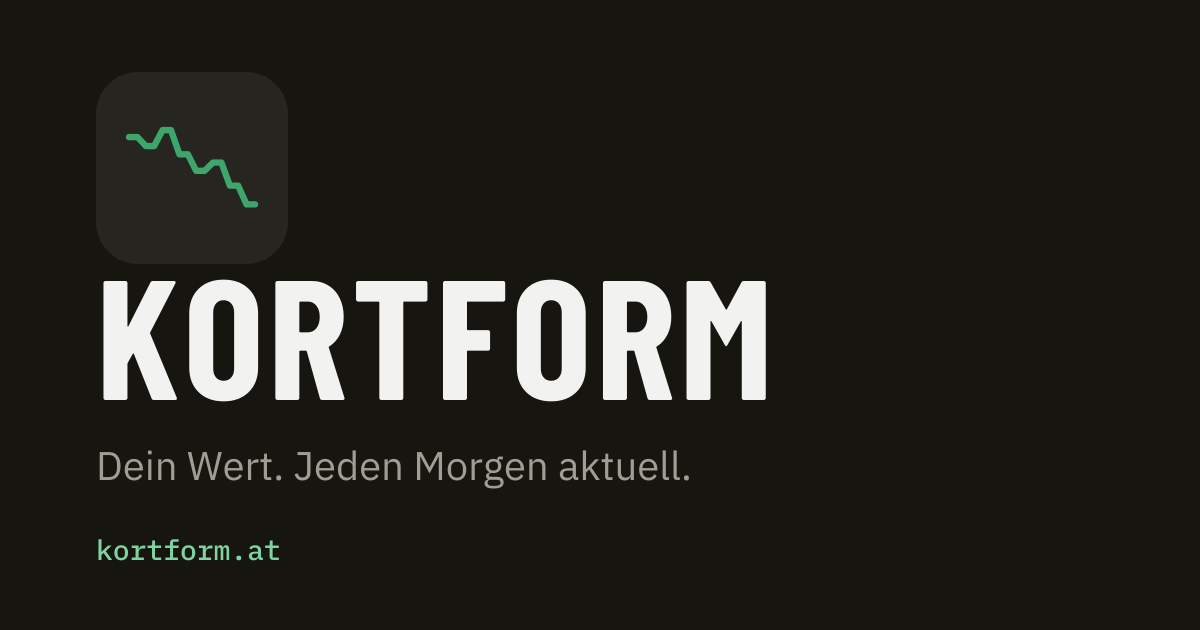
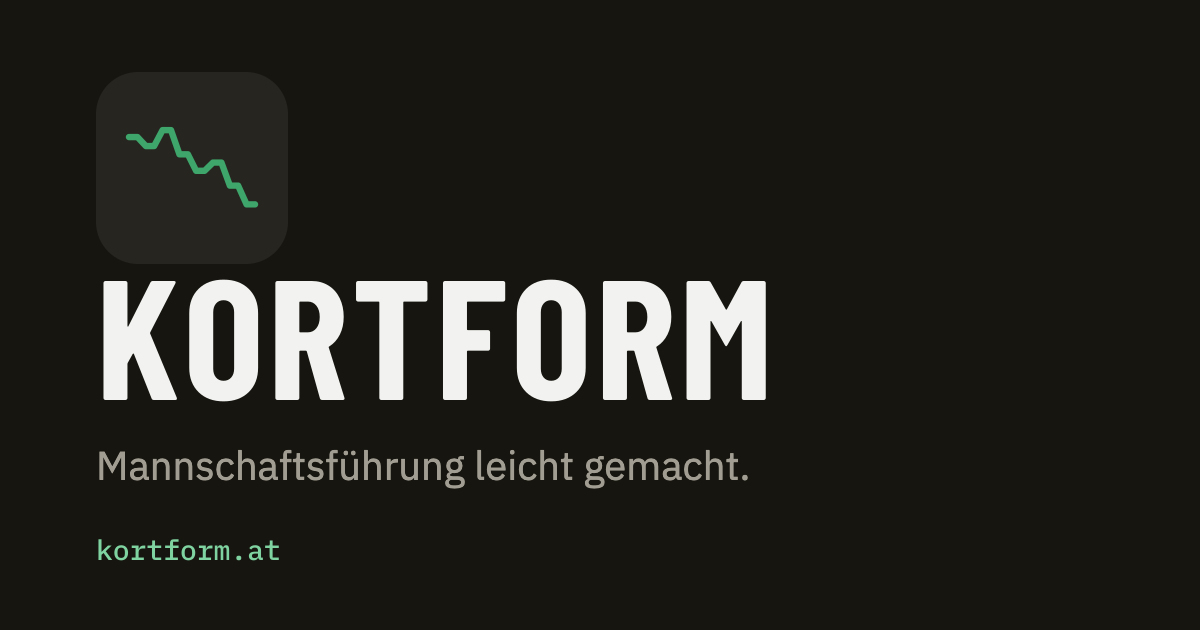
Use the new slogan, show answering by app or link and split prices by role

Changed region(s): [[0.0617, 0.6937, 0.6167, 0.7841]]

diff --git a/site/index.html b/site/index.html
@@ -4,7 +4,7 @@
   <meta charset="utf-8">
   <meta name="viewport" content="width=device-width, initial-scale=1">
   <title>Kortform – Mannschaft &amp; ITN</title>
-  <meta name="description" content="Kortform für Mannschaftsführer*innen im Tennis: Verfügbarkeit per Link abfragen, Spieler*innen antworten ohne App. Mit Kortform Team: Antworten auswerten, Aufstellung nach ITN planen, Liga-Prognose und gemeinsam mit der Co-Mannschaftsführung führen. Dazu dein eigener ITN, der Match-Rechner und Widgets.">
+  <meta name="description" content="Mannschaftsführung leicht gemacht: Kortform fragt die Verfügbarkeit deiner Tennis-Mannschaft ab, Spieler*innen antworten per App oder per Link. Mit Kortform Team: Antworten auswerten, Aufstellung nach ITN planen, Liga-Prognose und gemeinsam mit der Co-Mannschaftsführung führen. Dazu dein eigener ITN, der Match-Rechner und Widgets.">
   <link rel="canonical" href="https://kortform.at/">
   <meta name="apple-itunes-app" content="app-id=6826770040">
   <meta http-equiv="Content-Security-Policy" content="default-src 'none'; img-src 'self'; style-src 'self'; script-src 'self'; frame-src https://www.youtube-nocookie.com; connect-src https://swordistudios.goatcounter.com/count; font-src 'self'; base-uri 'none'; form-action 'none'">
@@ -22,15 +22,15 @@
   <meta property="og:site_name" content="Kortform">
   <meta property="og:locale" content="de_AT">
   <meta property="og:title" content="Kortform – Mannschaft &amp; ITN">
-  <meta property="og:description" content="Deine Mannschaft. Ein Link statt Gruppenchat: Verfügbarkeit abfragen, Spieler*innen antworten ohne App. Mit Kortform Team: Antworten auswerten, Aufstellung nach ITN planen und die Liga-Prognose im Blick. Dazu dein eigener ITN und der Match-Rechner.">
+  <meta property="og:description" content="Mannschaftsführung leicht gemacht: Verfügbarkeit abfragen, Spieler*innen antworten per App oder per Link. Mit Kortform Team: Antworten auswerten, Aufstellung nach ITN planen und die Liga-Prognose im Blick. Dazu dein eigener ITN und der Match-Rechner.">
   <meta property="og:url" content="https://kortform.at/">
   <meta property="og:image" content="https://kortform.at/og-image.png">
   <meta property="og:image:width" content="1200">
   <meta property="og:image:height" content="630">
-  <meta property="og:image:alt" content="Kortform: Verlaufslinie im App-Icon und der Schriftzug Kortform">
+  <meta property="og:image:alt" content="Kortform: Verlaufslinie im App-Icon, der Schriftzug Kortform und der Slogan „Mannschaftsführung leicht gemacht.“">
   <meta name="twitter:card" content="summary_large_image">
   <meta name="twitter:title" content="Kortform – Mannschaft &amp; ITN">
-  <meta name="twitter:description" content="Deine Mannschaft. Ein Link statt Gruppenchat: Verfügbarkeit abfragen, Spieler*innen antworten ohne App. Mit Kortform Team: Antworten auswerten, Aufstellung nach ITN planen und die Liga-Prognose im Blick. Dazu dein eigener ITN und der Match-Rechner.">
+  <meta name="twitter:description" content="Mannschaftsführung leicht gemacht: Verfügbarkeit abfragen, Spieler*innen antworten per App oder per Link. Mit Kortform Team: Antworten auswerten, Aufstellung nach ITN planen und die Liga-Prognose im Blick. Dazu dein eigener ITN und der Match-Rechner.">
   <script data-goatcounter="https://swordistudios.goatcounter.com/count" async src="/count.js"></script>
   <script defer src="/video.js"></script>
 </head>
@@ -54,8 +54,8 @@
 
     <div class="wrap hero">
       <div class="hero-copy">
-        <h1>Deine Mannschaft.<br>Ein Link statt<br>Gruppenchat.</h1>
-        <p class="lead">„Wer kann am Samstag?“ Schick einen Link, deine Spieler*innen antworten ohne App, und du stellst nach ITN auf. <span class="lead-more">Kortform zeigt dir die Siegchance je Position und eine Prognose für die Liga. Dazu dein eigener ITN und der Match-Rechner.</span></p>
+        <h1>Mannschafts&shy;führung<br>leicht gemacht.</h1>
+        <p class="lead">„Wer kann am Samstag?“ Deine Spieler*innen antworten per App oder per Link, ganz wie es passt, und du stellst nach ITN auf. <span class="lead-more">Kortform zeigt dir die Siegchance je Position und eine Prognose für die Liga. Dazu dein eigener ITN und der Match-Rechner.</span></p>
         <p class="store"><a class="store-badge" href="https://apps.apple.com/at/app/id6826770040"><img src="/img/app-store-badge-de.svg" alt="Laden im App Store" width="120" height="40"></a> <a class="store-badge" href="https://play.google.com/store/apps/details?id=com.swordistudios.kortform"><img src="/img/google-play-badge-de.webp" alt="Jetzt bei Google Play" width="646" height="192"></a></p>
         <p class="status"><strong>Jetzt fürs iPhone und für Android.</strong> Auswertung der Verfügbarkeiten, Aufstellung und Prognose gehören zu Kortform Team. Link und Antworten sind für alle gratis.</p>
       </div>
@@ -76,7 +76,7 @@
     <section class="wrap follow" aria-labelledby="mannschaft">
       <div class="follow-copy">
         <h2 id="mannschaft">So funktioniert’s</h2>
-        <p class="follow-intro">Von der Liga zur Aufstellung in drei Schritten, ohne dass jemand im Gruppenchat nachfragen muss.</p>
+        <p class="follow-intro">Von der Liga zur Aufstellung in drei Schritten, ohne dass du einzeln nachfragen musst.</p>
 
         <ol class="follow-list">
           <li>
@@ -84,8 +84,8 @@
             <p>Wähl deine Gruppe aus der Liste der laufenden Meisterschaften oder füg ihren Link ein. Kortform lädt Tabelle, Spielplan, Ergebnisse und alle Kader. Dafür brauchst du die kostenlose Kort-ID, ohne Passwort.</p>
           </li>
           <li>
-            <h3>Abfrage per Link</h3>
-            <p>Kortform legt die Saison automatisch an, du teilst den Link in den Gruppenchat. Deine Spieler*innen antworten je Spieltag im Browser, ohne App und ohne Konto.</p>
+            <h3>Abfrage per App oder Link</h3>
+            <p>Kortform legt die Saison automatisch an, du teilst den Link. Deine Spieler*innen antworten je Spieltag in der App oder im Browser, beides ohne Konto.</p>
           </li>
           <li>
             <h3>Aufstellung festlegen <span class="plus">Team</span></h3>
@@ -147,7 +147,7 @@
             </button>
           </div>
           <h3>Für Spieler*innen</h3>
-          <p>So sagst du per Link zu oder ab, ganz ohne App und ohne Konto.</p>
+          <p>So sagst du zu oder ab, ganz ohne Konto.</p>
           <p class="video-note">Beim Abspielen wird YouTube geladen; dabei gelten die Datenschutzbestimmungen von Google.</p>
           <p class="video-link"><a class="tap" href="https://youtu.be/nzSf3HTiRtw" target="_blank" rel="noopener">Auf YouTube ansehen</a></p>
         </article>
@@ -157,8 +157,8 @@
     <section class="field" aria-labelledby="verfuegbarkeit">
       <div class="wrap field-inner">
         <div class="field-copy">
-          <h2 id="verfuegbarkeit">Deine Spieler*innen brauchen keine App.</h2>
-          <p>Kortform legt die Saison automatisch an, du teilst nur den Link. Er öffnet eine Webseite: Ja, Vielleicht oder Nein, optional mit Kommentar, ohne App und ohne Konto. Wer die App hat, antwortet auch dort.</p>
+          <h2 id="verfuegbarkeit">Antworten per App oder Link.</h2>
+          <p>Kortform legt die Saison automatisch an, du teilst nur den Link. Deine Spieler*innen antworten in der App oder im Browser, beides gleich gut und ohne Konto. Ja, Vielleicht oder Nein, optional mit Kommentar. Wer die App mit verknüpftem ÖTV-Profil nutzt, findet die Spieltage dort von selbst, alle anderen tippen den Link an.</p>
           <p>Mit Kortform Team siehst du alle Antworten je Spieltag und Saison, erinnerst per Tipp, wer noch fehlt, und die Antworten fließen direkt in den Aufstellungsplaner. Den Link und die Zahl der Antworten hast du auch gratis.</p>
           <p>Antworten ist immer gratis. Die Abfrage nimmt auch nach dem Ende von Team weiter Antworten an.</p>
         </div>
@@ -208,43 +208,62 @@
       <div class="wrap calc-inner">
         <div class="calc-copy">
           <h2 id="preise">Gratis, Pro und Team.</h2>
-          <p>Die Liga, der Abfrage-Link und das Antworten kosten nichts. Für die Mannschaftsführung gibt es Kortform Team, für alle anderen optional Pro. Gratis gibt es Werbung.</p>
+          <p>Die Liga, der Abfrage-Link und das Antworten kosten nichts. Für Spieler*innen gibt es optional Pro, für die Mannschaftsführung Kortform Team. Gratis gibt es Werbung.</p>
         </div>
 
-        <div class="sheet">
+        <div class="sheet sheet-wide">
           <p class="sheet-title">Preise <span>für Österreich, je Store</span></p>
-          <ul class="tiers" role="list">
-            <li class="tier">
-              <h3 class="tier-name">Gratis</h3>
-              <p class="tier-price">0 €</p>
-              <ul class="tier-list" role="list">
-                <li>Eine Liga mit Tabelle, Spielplan, Kader und Gegner*innen</li>
-                <li>3 Spieler*innen folgen</li>
-                <li>Dein ITN, Matches und Rechner</li>
-                <li>Abfrage-Link mit Antwortzahl und Antworten auf Abfragen immer</li>
+          <div class="tier-cols">
+            <section class="tier-col" aria-labelledby="preise-spieler">
+              <h3 class="tier-col-title" id="preise-spieler">Für Spieler*innen</h3>
+              <ul class="tiers" role="list">
+                <li class="tier">
+                  <h4 class="tier-name">Gratis</h4>
+                  <p class="tier-price">0 €</p>
+                  <ul class="tier-list" role="list">
+                    <li>Dein ITN, Matches, ITN-Rechner</li>
+                    <li>3 Spieler*innen folgen</li>
+                    <li>Verfügbarkeiten bekannt geben</li>
+                    <li>Meisterschaftstermine</li>
+                  </ul>
+                </li>
+                <li class="tier">
+                  <h4 class="tier-name">Pro</h4>
+                  <p class="tier-price">3,99 € <span>einmalig</span></p>
+                  <ul class="tier-list" role="list">
+                    <li>Keine Werbung</li>
+                    <li>Bis zu 100 Spieler*innen folgen</li>
+                  </ul>
+                </li>
               </ul>
-            </li>
-            <li class="tier">
-              <h3 class="tier-name">Pro</h3>
-              <p class="tier-price">3,99 € <span>einmalig</span></p>
-              <ul class="tier-list" role="list">
-                <li>Keine Werbung</li>
-                <li>Bis 100 Spieler*innen folgen</li>
+            </section>
+            <section class="tier-col" aria-labelledby="preise-mf">
+              <h3 class="tier-col-title" id="preise-mf">Für Mannschaftsführer*innen</h3>
+              <ul class="tiers" role="list">
+                <li class="tier">
+                  <h4 class="tier-name">Gratis</h4>
+                  <p class="tier-price">0 €</p>
+                  <p class="tier-lead">Alles wie bei Spieler*innen, plus:</p>
+                  <ul class="tier-list" role="list">
+                    <li>Eine Mannschaft mit Liga-Tabelle, Spielplan, Kader</li>
+                  </ul>
+                </li>
+                <li class="tier tier-mark">
+                  <h4 class="tier-name">Team</h4>
+                  <p class="tier-price">19,99 € <span>pro Jahr</span></p>
+                  <p class="tier-note"><span class="tier-badge">Die ersten 14 Tage gratis</span></p>
+                  <p class="tier-lead">Alles aus Pro, plus:</p>
+                  <ul class="tier-list" role="list">
+                    <li>Verfügbarkeiten-Verwaltung</li>
+                    <li>Aufstellungsplaner</li>
+                    <li>Prognosen für Matches und die gesamte Saison</li>
+                    <li>Beliebig viele Mannschaften verwalten</li>
+                    <li>Mannschaftsführung mit anderen teilen</li>
+                  </ul>
+                </li>
               </ul>
-            </li>
-            <li class="tier tier-mark">
-              <h3 class="tier-name">Team <span class="tier-badge">Die ersten 14 Tage gratis</span></h3>
-              <p class="tier-price">19,99 € <span>pro Jahr</span></p>
-              <ul class="tier-list" role="list">
-                <li>Enthält Pro</li>
-                <li>Verfügbarkeiten auswerten</li>
-                <li>Aufstellungsplaner</li>
-                <li>Prognose</li>
-                <li>Beliebig viele Ligen</li>
-                <li>Co-Mannschaftsführung einladen</li>
-              </ul>
-            </li>
-          </ul>
+            </section>
+          </div>
           <p class="sheet-foot">Team ist ein Jahresabo, braucht die kostenlose Kort-ID und gilt auf allen deinen Geräten. Was gratis bleibt, steht in den <span class="nowrap"><a class="tap" href="/support/#team-kosten">häufigen Fragen</a>.</span></p>
           <p class="store sheet-store"><a class="store-badge" href="https://apps.apple.com/at/app/id6826770040"><img src="/img/app-store-badge-de.svg" alt="Laden im App Store" width="120" height="40"></a> <a class="store-badge" href="https://play.google.com/store/apps/details?id=com.swordistudios.kortform"><img src="/img/google-play-badge-de.webp" alt="Jetzt bei Google Play" width="646" height="192"></a></p>
         </div>
@@ -266,7 +285,7 @@
             <p>Folg Mitspieler*innen und Gegner*innen. Die Liste zeigt Wert und Änderung, mit ÖTV-Login auch letztes Spiel und die Form der letzten fünf Spiele. Du selbst bleibst oben angeheftet.</p>
           </li>
           <li>
-            <h3>Ohne App antworten, mit App mehr</h3>
+            <h3>Mit der App: Spieltage samt Adresse und Kalender</h3>
             <p>Hast du die App und ein verknüpftes ÖTV-Profil, siehst du aus der Abfrage deine kommenden Matches mit Adresse und trägst sie per Tipp in den Kalender ein.</p>
           </li>
         </ol>

diff --git a/site/home.css b/site/home.css
@@ -67,6 +67,14 @@
 }
 /* Short landscape screens: height limits the headline too */
 @media (max-height: 500px) { .hero h1 { font-size: clamp(40px, min(14.5vw, 18svh), 124px); } }
+/* From 760 px "Mannschaftsführung" (8.47 em wide) must stay on one line: size the headline by the width of its own column (the soft hyphen stays as the fallback on phones) */
+@media (min-width: 760px) {
+  .hero-copy { container-type: inline-size; }
+  .hero h1 { font-size: clamp(40px, min(10.4vw, 18svh), 124px); font-size: clamp(40px, min(11.6cqw, 18svh), 124px); }
+}
+@media (min-width: 1000px) {
+  .hero h1 { font-size: clamp(40px, min(6.8vw, 18svh), 87px); font-size: clamp(40px, min(11.6cqw, 18svh), 124px); }
+}
 .status { margin: 14px 0 0; max-width: 40em; padding-left: 14px; border-left: 3px solid var(--clay); font-size: 14px; color: var(--text-2); }
 .status strong { color: var(--text); font-weight: 600; }
 .hero-shot { margin: 0; width: min(100%, 340px); justify-self: end; }
@@ -144,36 +152,26 @@
 .ledger-total th, .ledger-total td { border-top: 2px solid var(--text); border-bottom: 0; padding-top: 12px; }
 .ledger-total th { font-weight: 600; }
 .ledger-total td { font-size: 26px; color: var(--primary); }
-.tiers { list-style: none; margin: 6px 0 0; padding: 0; }
-.tier { display: grid; grid-template-columns: minmax(0, 1fr) auto; gap: 4px 16px; align-items: baseline; padding: 14px 0; border-bottom: 1px solid var(--border); }
-.tier-name { font-size: 28px; line-height: 1; display: flex; flex-wrap: wrap; align-items: center; gap: 6px 10px; }
+.tier-cols { display: grid; gap: 28px; margin-top: 12px; }
+.tier-col { min-width: 0; }
+.tier-col-title { margin: 0 0 10px; overflow-wrap: anywhere; font-size: 22px; line-height: 1.05; color: var(--clay-text); }
+.tiers { list-style: none; margin: 0; padding: 0; display: grid; gap: 12px; }
+.tier { display: grid; grid-template-columns: minmax(0, 1fr) auto; gap: 6px 12px; align-items: baseline; padding: 14px 16px; border: 1.5px solid var(--text); background: var(--card); }
+.tier-name { margin: 0; font-family: var(--font-display); font-weight: 700; text-transform: uppercase; letter-spacing: 0.02em; font-size: 28px; line-height: 1; }
+.tier-note { grid-column: 1 / -1; margin: 0; }
+.tier-lead { grid-column: 1 / -1; margin: 4px 0 0; font-size: 15px; line-height: 1.4; color: var(--text-2); }
+.tier-lead + .tier-list { margin-top: 0; }
 .tier-price { margin: 0; font-family: var(--font-mono); font-weight: 600; font-size: 22px; text-align: right; white-space: nowrap; font-variant-numeric: tabular-nums; }
 .tier-price span { display: block; font-family: var(--font-text); font-weight: 400; font-size: 14px; color: var(--text-2); }
 .tier-badge { font-family: var(--font-mono); font-weight: 600; font-size: 12px; letter-spacing: 0.06em; line-height: 1.3; padding: 3px 8px; border-radius: 12px; background: var(--clay); color: var(--on-clay); text-transform: uppercase; white-space: nowrap; }
-.tier-list { grid-column: 1 / -1; list-style: none; margin: 8px 0 0; padding: 0; font-size: 15px; line-height: 1.4; }
+.tier-list { grid-column: 1 / -1; list-style: none; margin: 4px 0 0; padding: 0; font-size: 15px; line-height: 1.4; }
 .tier-list li { position: relative; padding-left: 26px; }
 .tier-list li + li { margin-top: 6px; }
 .tier-list li::before { content: ""; position: absolute; left: 3px; top: 0.3em; width: 6px; height: 11px; border: solid var(--primary); border-width: 0 2.5px 2.5px 0; transform: rotate(45deg); }
-.tier-mark { background: rgba(166, 75, 39, 0.12); box-shadow: -8px 0 0 rgba(166, 75, 39, 0.12), 8px 0 0 rgba(166, 75, 39, 0.12); }
+.tier-mark { border: 2px solid var(--clay-text); background: rgba(166, 75, 39, 0.12); }
 .tier-mark .tier-price { color: var(--clay-text); }
-@media (prefers-color-scheme: dark) { .tier-mark { background: rgba(224, 138, 99, 0.14); box-shadow: -8px 0 0 rgba(224, 138, 99, 0.14), 8px 0 0 rgba(224, 138, 99, 0.14); } .tier-badge { background: var(--clay-text); color: #16150f; } }
-@media (min-width: 760px) {
-  .tier { align-items: center; }
-  .tier-price { display: flex; justify-content: flex-end; align-items: baseline; padding-right: 88px; }
-  .tier-price span { display: inline-block; width: 80px; margin: 0 -88px 0 8px; text-align: left; }
-  .tier-list { margin-top: 2px; }
-}
-@media (max-width: 759px) {
-  .tiers { display: grid; gap: 14px; margin-top: 12px; }
-  .tier, .tier-mark { padding: 16px; border: 1.5px solid var(--text); background: var(--card); box-shadow: none; }
-  .tier-mark { border-color: var(--clay-text); border-width: 2px; }
-  .tier-price { font-size: 26px; }
-}
-@media (max-width: 459px) {
-  .tier-mark .tier-name { grid-column: 1 / -1; }
-  .tier-mark .tier-price { grid-column: 1 / -1; display: flex; align-items: baseline; gap: 10px; text-align: left; }
-  .tier-mark .tier-price span { display: inline; }
-}
+@media (prefers-color-scheme: dark) { .tier-mark { background: rgba(224, 138, 99, 0.14); } .tier-badge { background: var(--clay-text); color: #16150f; } }
+@media (min-width: 760px) { .tier-cols { grid-template-columns: repeat(2, minmax(0, 1fr)); gap: 24px; align-items: start; } }
 .sheet-foot { margin: 12px 0 0; font-size: 14px; color: var(--text-2); }
 
 @media (min-width: 1000px) {
@@ -181,6 +179,7 @@
   .calc-inner { grid-template-columns: repeat(12, minmax(0, 1fr)); column-gap: 24px; row-gap: 32px; }
   .calc-copy { grid-column: 1 / 8; grid-row: 1; }
   .sheet { grid-column: 1 / 8; grid-row: 2; padding: 24px 28px 18px; }
+  .sheet-wide { grid-column: 1 / 13; max-width: 960px; }
   .calc-shot { display: block; grid-column: 9 / 13; grid-row: 1 / 3; width: 100%; max-width: 300px; justify-self: end; align-self: start; }
 }
 

diff --git a/site/support/index.html b/site/support/index.html
@@ -23,7 +23,7 @@
   <meta property="og:image" content="https://kortform.at/og-image.png">
   <meta property="og:image:width" content="1200">
   <meta property="og:image:height" content="630">
-  <meta property="og:image:alt" content="Kortform: Verlaufslinie im App-Icon und der Schriftzug Kortform">
+  <meta property="og:image:alt" content="Kortform: Verlaufslinie im App-Icon, der Schriftzug Kortform und der Slogan „Mannschaftsführung leicht gemacht.“">
   <meta name="twitter:card" content="summary_large_image">
   <script data-goatcounter="https://swordistudios.goatcounter.com/count" async src="/count.js"></script>
   <script defer src="/video.js"></script>
@@ -49,7 +49,7 @@
       <summary>Inhalt</summary>
       <ol class="toc-num" role="list">
         <li><a href="#kontakt">Kontakt</a></li>
-        <li><a href="#spieler-app">Brauchen meine Spieler*innen die App?</a></li>
+        <li><a href="#spieler-app">Müssen meine Spieler*innen die App installieren?</a></li>
         <li><a href="#videos">Gibt es eine Erklärung als Video?</a></li>
         <li><a href="#team-kosten">Was kostet Team, was bleibt gratis?</a></li>
         <li><a href="#daten-kort-id">Wo liegen meine Daten mit Kort-ID?</a></li>
@@ -81,12 +81,12 @@
 
     <h2 id="haeufige-fragen">Häufige Fragen</h2>
 
-    <h3 id="spieler-app">Brauchen meine Spieler*innen die App?</h3>
+    <h3 id="spieler-app">Müssen meine Spieler*innen die App installieren?</h3>
     <p>
-      Nein. Deine Spieler*innen antworten auf eine Abfrage über den Link, im Browser, ohne App und ohne Konto: Ja, Nein oder Unter
-      Umständen, optional mit Kommentar. Nur du als Mannschaftsführung brauchst die App und die kostenlose Kort-ID. Wer die App
-      hat, kann auch dort antworten und sieht, wenn das ÖTV-Profil verknüpft ist, die kommenden Matches mit Adresse und einem
-      Tipp zum Kalender. Antworten ist für alle gratis.
+      Nein. App oder Link, beides geht gleich gut. Deine Spieler*innen antworten auf eine Abfrage in der App oder über den Link
+      im Browser, in beiden Fällen ohne Konto: Ja, Vielleicht oder Nein, optional mit Kommentar. Nur du als Mannschaftsführung brauchst
+      die App und die kostenlose Kort-ID. Wer die App mit verknüpftem ÖTV-Profil nutzt, findet die Spieltage dort von selbst,
+      mit Adresse und einem Tipp zum Kalender. Alle anderen tippen den Link an. Antworten ist für alle gratis.
     </p>
 
     <h3 id="videos">Gibt es eine Erklärung als Video?</h3>
@@ -115,7 +115,7 @@
           </button>
         </div>
         <h4>Für Spieler*innen</h4>
-        <p>So sagst du per Link zu oder ab, ganz ohne App und ohne Konto.</p>
+        <p>So sagst du zu oder ab, ganz ohne Konto.</p>
         <p class="video-note">Beim Abspielen wird YouTube geladen; dabei gelten die Datenschutzbestimmungen von Google.</p>
         <p class="video-link"><a class="tap" href="https://youtu.be/nzSf3HTiRtw" target="_blank" rel="noopener">Auf YouTube ansehen</a></p>
       </article>

diff --git a/site/datenschutz/index.html b/site/datenschutz/index.html
@@ -23,7 +23,7 @@
   <meta property="og:image" content="https://kortform.at/og-image.png">
   <meta property="og:image:width" content="1200">
   <meta property="og:image:height" content="630">
-  <meta property="og:image:alt" content="Kortform: Verlaufslinie im App-Icon und der Schriftzug Kortform">
+  <meta property="og:image:alt" content="Kortform: Verlaufslinie im App-Icon, der Schriftzug Kortform und der Slogan „Mannschaftsführung leicht gemacht.“">
   <meta name="twitter:card" content="summary_large_image">
   <script data-goatcounter="https://swordistudios.goatcounter.com/count" async src="/count.js"></script>
 </head>

diff --git a/site/impressum/index.html b/site/impressum/index.html
@@ -23,7 +23,7 @@
   <meta property="og:image" content="https://kortform.at/og-image.png">
   <meta property="og:image:width" content="1200">
   <meta property="og:image:height" content="630">
-  <meta property="og:image:alt" content="Kortform: Verlaufslinie im App-Icon und der Schriftzug Kortform">
+  <meta property="og:image:alt" content="Kortform: Verlaufslinie im App-Icon, der Schriftzug Kortform und der Slogan „Mannschaftsführung leicht gemacht.“">
   <meta name="twitter:card" content="summary_large_image">
   <script data-goatcounter="https://swordistudios.goatcounter.com/count" async src="/count.js"></script>
 </head>

diff --git a/site/nutzungsbedingungen.html b/site/nutzungsbedingungen.html
@@ -22,7 +22,7 @@
   <meta property="og:image" content="https://kortform.at/og-image.png">
   <meta property="og:image:width" content="1200">
   <meta property="og:image:height" content="630">
-  <meta property="og:image:alt" content="Kortform: Verlaufslinie im App-Icon und der Schriftzug Kortform">
+  <meta property="og:image:alt" content="Kortform: Verlaufslinie im App-Icon, der Schriftzug Kortform und der Slogan „Mannschaftsführung leicht gemacht.“">
   <meta name="twitter:card" content="summary_large_image">
   <script data-goatcounter="https://swordistudios.goatcounter.com/count" async src="/count.js"></script>
 </head>
